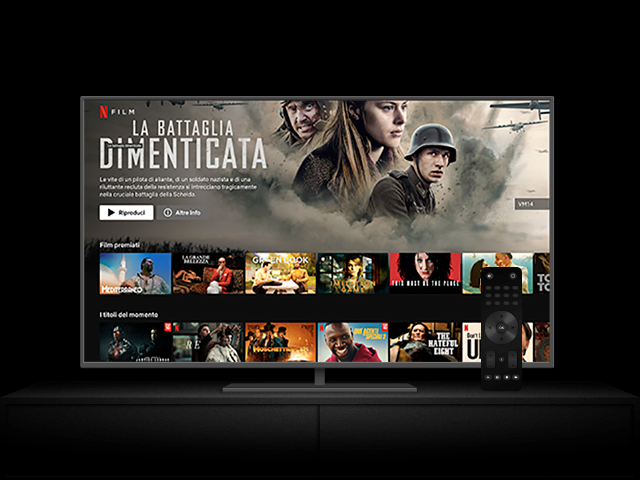
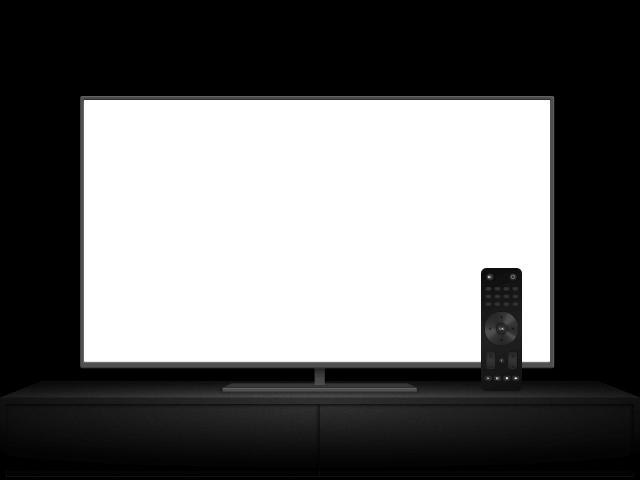
add:responsive section 1

diff --git a/homepage.css b/homepage.css
@@ -19,36 +19,92 @@ body {
 /*Section_1*/
 
 .tv-section {
+  width:95%;
+  margin:0 auto;
+  max-width:1100px;
+  overflow:hidden;
   display: grid;
   grid-template-columns: 1fr 1fr;
-  justify-items: center;
-  align-items: center;
+  align-items:center;
+  position:relative;
 }
 .tv-div {
   grid-column: 1;
   color: white;
-  margin-left: 32%;
+  box-sizing:border-box;
 }
 .tv-div > h2 {
-  font-size: 40px;
+  min-width:458px;
+  font-size: 45px;
   margin-bottom: 10px;
 }
 .tv-div > p {
-  font-size: 24px;
+  font-size: 22px;
   line-height: 32px;
 }
-.tv {
-  grid-column: 2;
-  margin-right: 32%;
+.contenitore-tv {
+  display:flex;
+  -webkit-box-flex:0;
+  flex: 0 1 auto;
+  box-sizing:border-box;
 }
-.tv > img {
-  width: 545px;
+.tv {
+  position:relative;
+  overflow:hidden;
+}
+
+.tv img {
+  max-width:100%;
+  height:auto;
+  border:0;
+  z-index:2;
+  position:relative;
+}
+.animazione-tv{
+  width:100%;
+  height:100%;
+  max-width:73%;
+  max-height:54%;
+  position:absolute;
+  top:20%;
+  left:13%;
+  transform: translate (-50%, -50%);
+}
+.tv-video {
+  width:100%;
+  height:100%;
 }
 hr {
   background-color: gray;
   opacity: 0.3;
   height: 7px;
+  border:none;
 }
+@media screen and (max-width:949px) {
+  .tv-section {
+    display:flex;
+    flex-direction:column;
+    align-items:center;
+  }
+  .tv-div {
+    padding-top:70px;
+    text-align:center;
+  }
+  .tv-div > h2 {
+    font-size: 34px;
+    margin-bottom: 10px;
+  }
+  .tv-div > p {
+    font-size: 19px;
+    line-height: 25px;
+  }
+  .tv img {
+    max-width:100%;
+    height:auto;
+    border:0;
+  }
+}
+
 
 /* Footer CSS */
 

diff --git a/index.html b/index.html
@@ -37,19 +37,26 @@
   </nav>
 
      <!-------------------------------------------------------SEZIONE 1------------------------------------------->
-    <hr class="riga">
+    <hr>
     <section class="tv-section">
         <div class="tv-div">
             <h2>Goditi Netflix sulla tua TV.</h2>
-            <p>Guarda Netflix su Smart TV, Playstation, Xbox,<br>
-                Chromecast, Apple TV, lettori Blu-ray, e <br>ß
+            <p>Guarda Netflix su Smart TV, Playstation, Xbox,
+                Chromecast, Apple TV, lettori Blu-ray, e
                 molti altri dispositivi.</p>
         </div>
-        <picture class="tv">
-            <!-- <img src="assets/tvnetflix.png" alt="tv a schermo piatto nera con schermata principale netflix e telecomando"> -->
-        </picture>
+        <div class="contenitore-tv">
+          <picture class="tv">
+              <img src="assets/tvnetflix.png" alt="tv a schermo piatto nera con schermata principale netflix e telecomando">
+              <div class="animazione-tv">
+                <video class="tv-video"autoplay playsinline muted loop>
+                  <source src="https://assets.nflxext.com/ffe/siteui/acquisition/ourStory/fuji/desktop/video-tv-0819.m4v" type="video/mp4">
+                </video>
+              </div>
+          </picture>
+        </div>
     </section>
-    <hr class="riga">
+    <hr>
     <!-------------------------------------------------------SEZIONE 3-------------------------------------------->
 
     <section class="">
